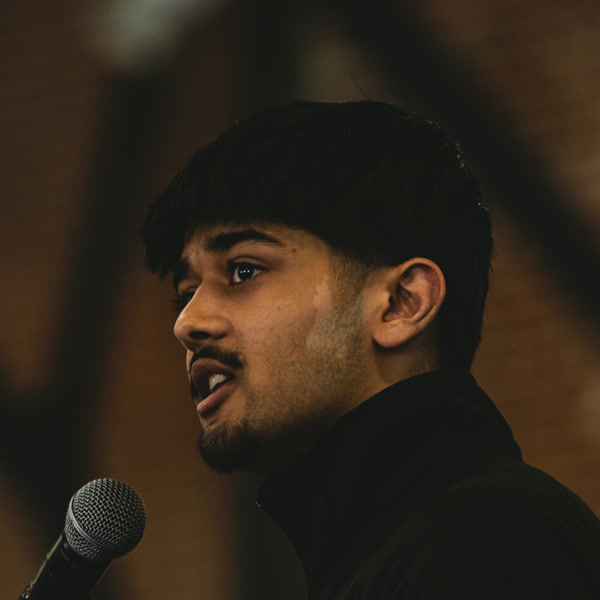
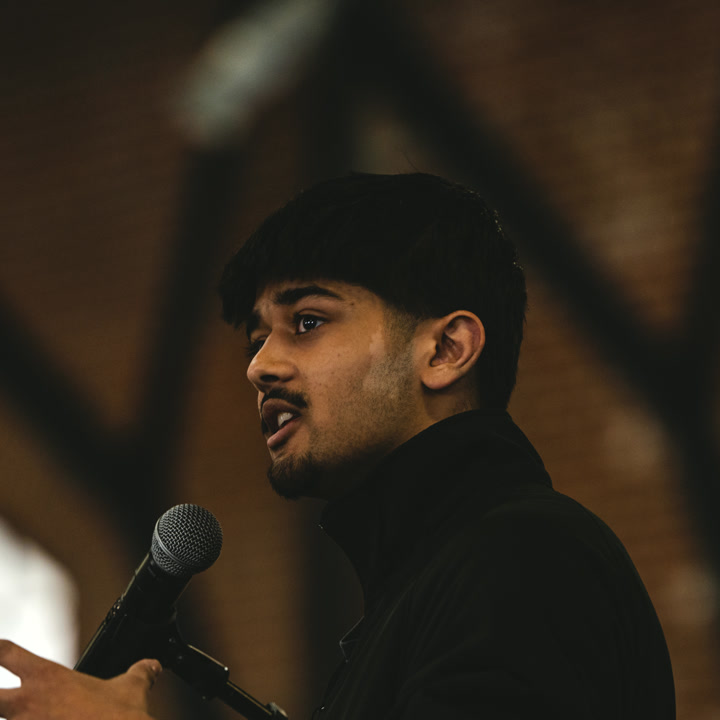
Warmer off-white background, larger + wider profile crop, stronger cursor interaction
- --bg #EFEDE7 replaces pure white for the page (cards stay white and now lift slightly)
- Avatar up to ~264px; re-cropped profile.jpg wider to show head/shoulders/mic
- Particle field: bigger repel radius + swirl, velocity cap, cursor glow, and
  near-cursor particles grow/brighten with lines drawn back to the pointer

Claude-Session: https://claude.ai/code/session_01UeGKJ6gMWLKQwbZKin7sD7

diff --git a/index.html b/index.html
@@ -12,10 +12,11 @@
     --charcoal:#353535;
     --teal:#3C6E71;
     --white:#FFFFFF;
+    --bg:#EFEDE7;            /* soft warm off-white page background (not white, not dark) */
     --grey:#D9D9D9;
     --navy:#284B63;
     --radius:8px;
-    --shadow: 0 1px 2px rgba(53,53,53,0.04), 0 2px 8px rgba(53,53,53,0.05);
+    --shadow: 0 1px 2px rgba(40,75,99,0.06), 0 4px 16px rgba(40,75,99,0.07);
     /* one shared fluid width + gutter that every section aligns to */
     --maxw: min(1600px, 92vw);
     --pad-x: clamp(18px, 4vw, 48px);
@@ -26,7 +27,7 @@
   html, body{ overflow-x:clip; }
   body{
     margin:0;
-    background:var(--white);
+    background:var(--bg);
     color:var(--charcoal);
     font-family:'Inter',-apple-system,BlinkMacSystemFont,'Segoe UI',sans-serif;
     font-size:clamp(15px, 0.45vw + 13.6px, 18px);
@@ -69,14 +70,14 @@
   .hero{ max-width:var(--maxw); margin:0 auto; padding:clamp(32px,5vw,56px) var(--pad-x) clamp(40px,6vw,64px); text-align:center; }
   .avatar-wrap{ display:flex; justify-content:center; margin-bottom:22px; }
   .avatar{
-    width:clamp(150px, 18vw, 190px); height:clamp(150px, 18vw, 190px); border-radius:50%;
-    object-fit:cover; border:4px solid var(--white);
+    width:clamp(200px, 24vw, 264px); height:clamp(200px, 24vw, 264px); border-radius:50%;
+    object-fit:cover; border:5px solid var(--white);
     box-shadow:var(--shadow);
   }
   .avatar-fallback{
-    display:none; width:clamp(150px, 18vw, 190px); height:clamp(150px, 18vw, 190px); border-radius:50%;
+    display:none; width:clamp(200px, 24vw, 264px); height:clamp(200px, 24vw, 264px); border-radius:50%;
     background:var(--navy); color:var(--white); align-items:center; justify-content:center;
-    font-size:clamp(42px, 6vw, 58px); font-weight:700; box-shadow:var(--shadow);
+    font-size:clamp(50px, 7vw, 70px); font-weight:700; box-shadow:var(--shadow);
   }
   .hero h1{ font-size:clamp(28px,4.6vw,50px); max-width:16ch; margin:0 auto; }
   .hero p.sub{ color:var(--charcoal); opacity:0.72; font-size:clamp(15px,1.1vw,18px); margin:18px auto 0; max-width:56ch; }
@@ -461,26 +462,46 @@
     mouse.x = -9999; mouse.y = -9999;
   });
 
-  var LINK_DIST = 140;
-  var REPEL_DIST = 110;
+  var LINK_DIST = 145;
+  var REPEL_DIST = 175;
+  var CURSOR_DIST = 240;   // reach of the interactive web that follows the cursor
+  var MAXV = 2.6;
 
   function stepParticles(){
     ctx.clearRect(0, 0, W, Hpx);
 
+    var mActive = mouse.x > -9998;
+
+    // soft glow trailing the cursor
+    if (mActive){
+      var glow = ctx.createRadialGradient(mouse.x, mouse.y, 0, mouse.x, mouse.y, CURSOR_DIST * 0.7);
+      glow.addColorStop(0, 'rgba(60,110,113,0.10)');
+      glow.addColorStop(1, 'rgba(60,110,113,0)');
+      ctx.fillStyle = glow;
+      ctx.beginPath();
+      ctx.arc(mouse.x, mouse.y, CURSOR_DIST * 0.7, 0, Math.PI * 2);
+      ctx.fill();
+    }
+
     for (var i = 0; i < particles.length; i++){
       var p = particles[i];
+      var dx = p.x - mouse.x, dy = p.y - mouse.y;
+      var dist = Math.sqrt(dx*dx + dy*dy);
 
       if (!reduceMotion){
-        // gentle repulsion from cursor
-        var dx = p.x - mouse.x, dy = p.y - mouse.y;
-        var dist = Math.sqrt(dx*dx + dy*dy);
-        if (dist < REPEL_DIST && dist > 0.01){
+        if (mActive && dist < REPEL_DIST && dist > 0.01){
           var force = (REPEL_DIST - dist) / REPEL_DIST;
-          p.vx += (dx / dist) * force * 0.06;
-          p.vy += (dy / dist) * force * 0.06;
+          // push away from the cursor
+          p.vx += (dx / dist) * force * 0.16;
+          p.vy += (dy / dist) * force * 0.16;
+          // + a little swirl so the field visibly stirs
+          p.vx += (-dy / dist) * force * 0.06;
+          p.vy += ( dx / dist) * force * 0.06;
         }
-        p.vx *= 0.98;
-        p.vy *= 0.98;
+        p.vx *= 0.955;
+        p.vy *= 0.955;
+        var sp = Math.sqrt(p.vx*p.vx + p.vy*p.vy);
+        if (sp > MAXV){ p.vx = p.vx / sp * MAXV; p.vy = p.vy / sp * MAXV; }
         p.x += p.vx;
         p.y += p.vy;
       }
@@ -488,10 +509,22 @@
       if (p.x < 0) p.x = W; if (p.x > W) p.x = 0;
       if (p.y < 0) p.y = Hpx; if (p.y > Hpx) p.y = 0;
 
+      // particles near the cursor brighten and grow
+      var near = mActive ? Math.max(0, 1 - dist / CURSOR_DIST) : 0;
       ctx.beginPath();
-      ctx.arc(p.x, p.y, 1.6, 0, Math.PI * 2);
-      ctx.fillStyle = 'rgba(60,110,113,0.35)';
+      ctx.arc(p.x, p.y, 1.6 + near * 3, 0, Math.PI * 2);
+      ctx.fillStyle = 'rgba(60,110,113,' + (0.32 + near * 0.55) + ')';
       ctx.fill();
+
+      // line tying each near particle back to the cursor
+      if (near > 0){
+        ctx.beginPath();
+        ctx.moveTo(p.x, p.y);
+        ctx.lineTo(mouse.x, mouse.y);
+        ctx.strokeStyle = 'rgba(60,110,113,' + (0.33 * near) + ')';
+        ctx.lineWidth = 1.1;
+        ctx.stroke();
+      }
     }
 
     for (var a = 0; a < particles.length; a++){
@@ -503,7 +536,7 @@
           ctx.beginPath();
           ctx.moveTo(pa.x, pa.y);
           ctx.lineTo(pb.x, pb.y);
-          ctx.strokeStyle = 'rgba(217,217,217,' + (0.6 * (1 - d / LINK_DIST)) + ')';
+          ctx.strokeStyle = 'rgba(120,128,130,' + (0.5 * (1 - d / LINK_DIST)) + ')';
           ctx.lineWidth = 1;
           ctx.stroke();
         }
